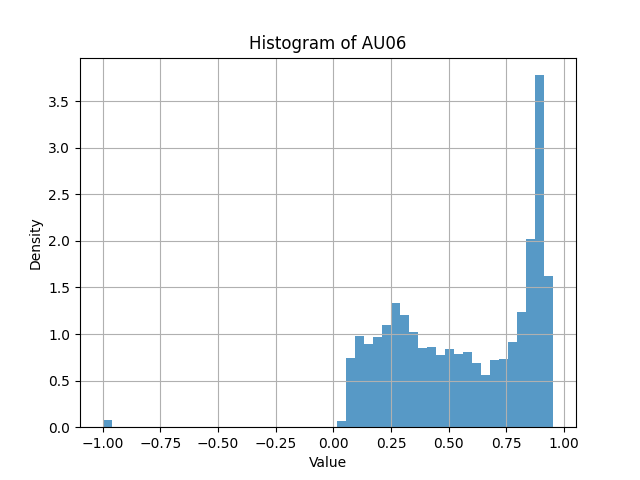
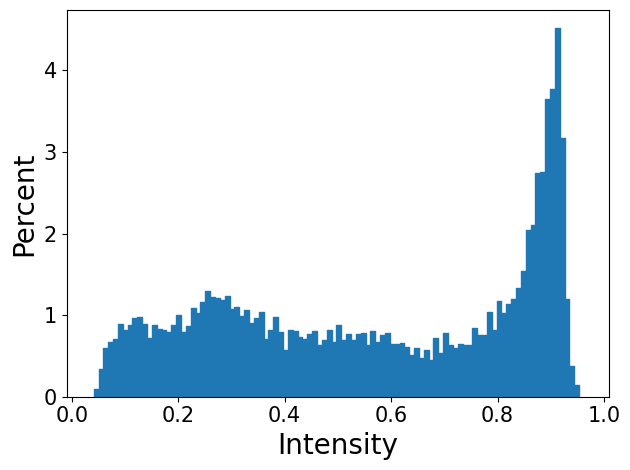
Au plots updated

diff --git a/src/scripts/generated_AU_dist.py b/src/scripts/generated_AU_dist.py
@@ -1,4 +1,5 @@
 import matplotlib.pyplot as plt
+import seaborn as sns
 import torch
 from safetensors.torch import load_file
 
@@ -8,10 +9,11 @@ pre_path = "../rsp/results/anycost"
 p = "/google-ddpm-ema-celebahq-256steps100-"
 pth = "hspace-after-etasNone-idxsize10000.safetensors"
 
-# open the torch file its not weights its just tensors
 data = load_file(f"{pre_path}{p}{pth}", device="cpu")
 
+
 attr = data["attr"]
+attr = attr[attr[:, 0] != -1]
 
 aus = SUPPORTED_AUS
 
@@ -19,12 +21,17 @@ aus = SUPPORTED_AUS
 # function that given a column of data returns the histogram of data
 def get_au_histogram(au_column, name):
     plt.figure()
-    plt.hist(au_column.numpy(), bins=50, density=True, alpha=0.75)
-    plt.title(f"Histogram of {name}")
-    plt.xlabel("Value")
-    plt.ylabel("Density")
-    plt.grid(True)
-    plt.savefig(f"{name}_histogram.png")
+    sns.histplot(
+        au_column.numpy(), bins=100, stat="percent", kde=False, element="step", alpha=1
+    )
+    plt.xlabel("Intensity", fontsize=20)
+    plt.ylabel("Percent", fontsize=20)
+    plt.grid(False)
+    plt.xlim(-0.01, 1.01)
+    plt.yticks(fontsize=15)
+    plt.xticks(fontsize=15)
+    plt.tight_layout()
+    plt.savefig(f"{name}_histogram.png", bbox_inches="tight")
     plt.close()
     return
 
